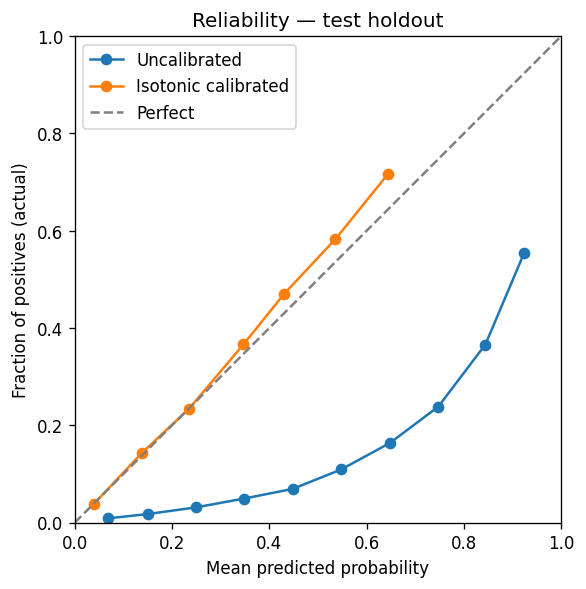
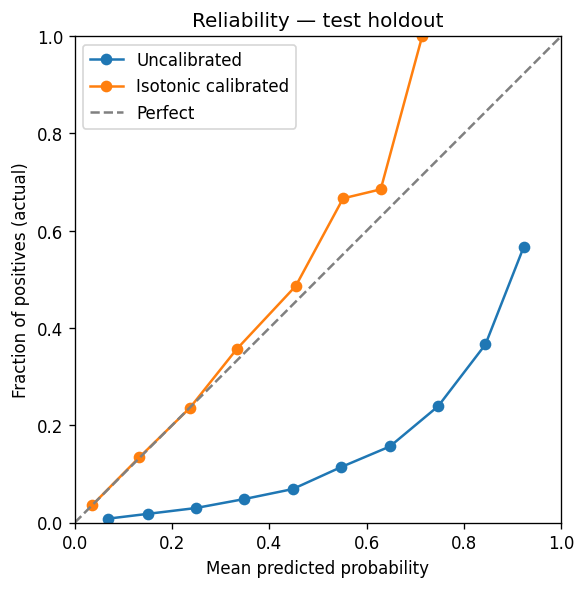
Update README with new MLflow run details and metrics; adjust validation and calibration sizes in training configuration; modify markdown cells in EDA notebook for clarity; update binary figures.

diff --git a/src/train.py b/src/train.py
@@ -76,10 +76,10 @@ class TrainConfig:
     rebuild_features: bool = False
     sample_frac: float | None = None
     test_size: float = 0.2
-    validation_size: float = 0.15
+    validation_size: float = 0.1
     #: Stratified fraction of the non-test pool reserved for isotonic calibration only
     #: (not used to fit the booster).
-    calibration_holdout_frac: float = 0.15
+    calibration_holdout_frac: float = 0.1
 
     numeric_imputer_strategy: str = "median"
     categorical_imputer_strategy: str = "most_frequent"

diff --git a/README.md b/README.md
@@ -58,15 +58,15 @@ The **production training run** — tuned XGBoost with `n_estimators=2000, max_d
 
 _Auto-generated from MLflow — refresh: `uv run python scripts/sync_readme_from_mlflow.py`_
 
-**MLflow run** `c6598c78fb0b46e18bbfb8707f0c5508` — **xgb_2000_depth4_sub075_lambda2**
+**MLflow run** `0c13f97febe74095af4a28fe7e742084` — **xgb_2000_depth4_sub075_lambda2**
 
 | Metric | Test |
 | --- | --- |
-| ROC-AUC | 0.7898 |
-| Gini (2×AUC − 1) | 0.5796 |
-| Average precision (PR-AUC) | 0.2904 |
-| KS statistic | 0.4418 |
-| Accuracy | 0.7483 |
+| ROC-AUC | 0.7907 |
+| Gini (2×AUC − 1) | 0.5814 |
+| Average precision (PR-AUC) | 0.2911 |
+| KS statistic | 0.4461 |
+| Accuracy | 0.7484 |
 
 ![ROC and precision–recall (test holdout, same split as training)](docs/figures/mlflow_eval_curves.png)
 
@@ -84,14 +84,14 @@ For credit and capital use cases, **calibrated probabilities** matter: a reporte
 
 _Auto-generated from MLflow — same command as the Modelling block._
 
-**MLflow run** `c6598c78fb0b46e18bbfb8707f0c5508` — **xgb_2000_depth4_sub075_lambda2** (isotonic `CalibratedClassifierCV` on a stratified row holdout before booster fit; `calibration_holdout_frac=0.15`).
+**MLflow run** `0c13f97febe74095af4a28fe7e742084` — **xgb_2000_depth4_sub075_lambda2** (isotonic `CalibratedClassifierCV` on a stratified row holdout before booster fit; `calibration_holdout_frac=0.1`).
 
 | Metric | Test holdout |
 | --- | --- |
-| Brier score (uncalibrated) | 0.1709 |
-| Brier score (isotonic calibrated) | 0.0655 |
-| ROC-AUC (uncalibrated) | 0.7898 |
-| ROC-AUC (calibrated proba) | 0.7891 |
+| Brier score (uncalibrated) | 0.1715 |
+| Brier score (isotonic calibrated) | 0.0654 |
+| ROC-AUC (uncalibrated) | 0.7907 |
+| ROC-AUC (calibrated proba) | 0.7901 |
 
 ![Reliability diagram — mean predicted vs observed default rate (test holdout)](docs/figures/reliability_raw_vs_calibrated.png)
 
